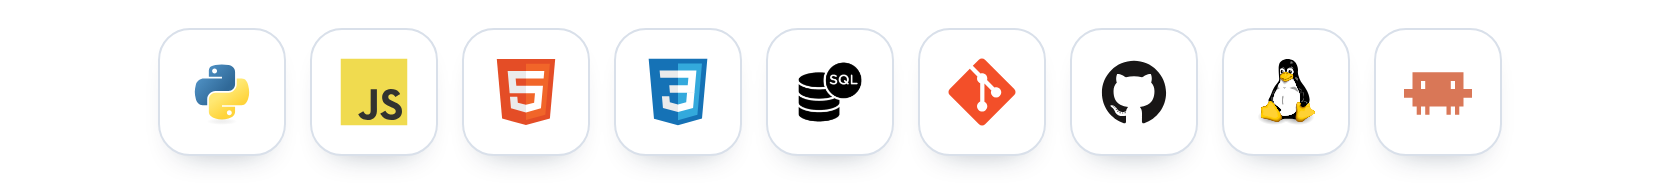
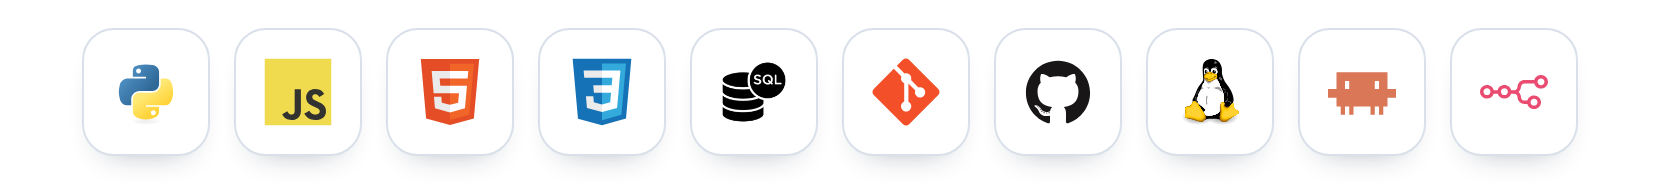
docs(perfil): añade n8n al stack y a las herramientas de IA

Changed region(s): [[0.0614, 0.2989, 0.9524, 0.7065], [0.0614, 0.788, 0.9524, 0.8696], [0.0614, 0.1359, 0.9524, 0.2174]]

diff --git a/README.md b/README.md
@@ -12,7 +12,7 @@ I learn by building. Alongside the course I run **[m4rkits.dev](https://m4rkits.
 
 <div align="center">
 
-<a href="https://m4rkits.dev/en/"><img src="./stack.png" alt="Python, JavaScript, HTML5, CSS, SQL, Git, GitHub, Linux and Claude Code" width="100%" /></a>
+<a href="https://m4rkits.dev/en/"><img src="./stack.png" alt="Python, JavaScript, HTML5, CSS, SQL, Git, GitHub, Linux, Claude Code and n8n" width="100%" /></a>
 
 </div>
 
@@ -37,7 +37,7 @@ I work with AI agents to speed up development and reduce the operational load, a
 - **A human in the loop.** I define the goal, an agent implements it, and I decide when we move to the next step.
 - **Precise specifications.** I write the prompt with a conversational assistant before launching the coding agent, and I keep strategy and code prompts in separate chats.
 - **Review and validation.** I check each result with screenshots and tests, iterate over several rounds, and verify whether the agent edited a file or regenerated it from scratch, so earlier fixes are not lost.
-- **Tools.** I started with Google Antigravity and now I work with Claude Code. I prototype interfaces with Google Stitch, connected to the agent through MCP (Model Context Protocol, the standard that lets an agent use external tools).
+- **Tools.** I started with Google Antigravity and now I work with Claude Code. I prototype interfaces with Google Stitch, connected to the agent through MCP (Model Context Protocol, the standard that lets an agent use external tools). I also know n8n, the automation platform that links apps and services into workflows.
 - **Limits for the agent.** API keys stay out of the code, I confirm terminal commands before they run, and agents never touch real production data.
 - **Version control from day one.** Every project goes to Git and GitHub.
 
@@ -93,7 +93,7 @@ Trabajo con agentes de IA para acelerar el desarrollo y reducir la carga operati
 - **Un humano en el circuito.** Yo defino el objetivo, un agente lo implementa y yo decido cuándo se pasa al siguiente paso.
 - **Especificaciones precisas.** Redacto el prompt con un asistente conversacional antes de lanzar el agente de código, y separo la estrategia y los prompts de código en chats distintos.
 - **Revisión y validación.** Compruebo cada resultado con capturas y pruebas, itero en varias rondas y verifico si el agente editó un archivo o lo regeneró desde cero, para no perder correcciones previas.
-- **Herramientas.** Empecé con Google Antigravity y ahora trabajo con Claude Code. Prototipo interfaces con Google Stitch conectado al agente mediante MCP (Model Context Protocol, el estándar que permite a un agente usar herramientas externas).
+- **Herramientas.** Empecé con Google Antigravity y ahora trabajo con Claude Code. Prototipo interfaces con Google Stitch conectado al agente mediante MCP (Model Context Protocol, el estándar que permite a un agente usar herramientas externas). También conozco n8n, la plataforma de automatización que une aplicaciones y servicios en flujos de trabajo.
 - **Límites para el agente.** Las claves de API quedan fuera del código, confirmo los comandos de terminal antes de que se ejecuten y los agentes nunca tocan datos reales de producción.
 - **Control de versiones desde el primer día.** Cada proyecto va a Git y GitHub.
 
